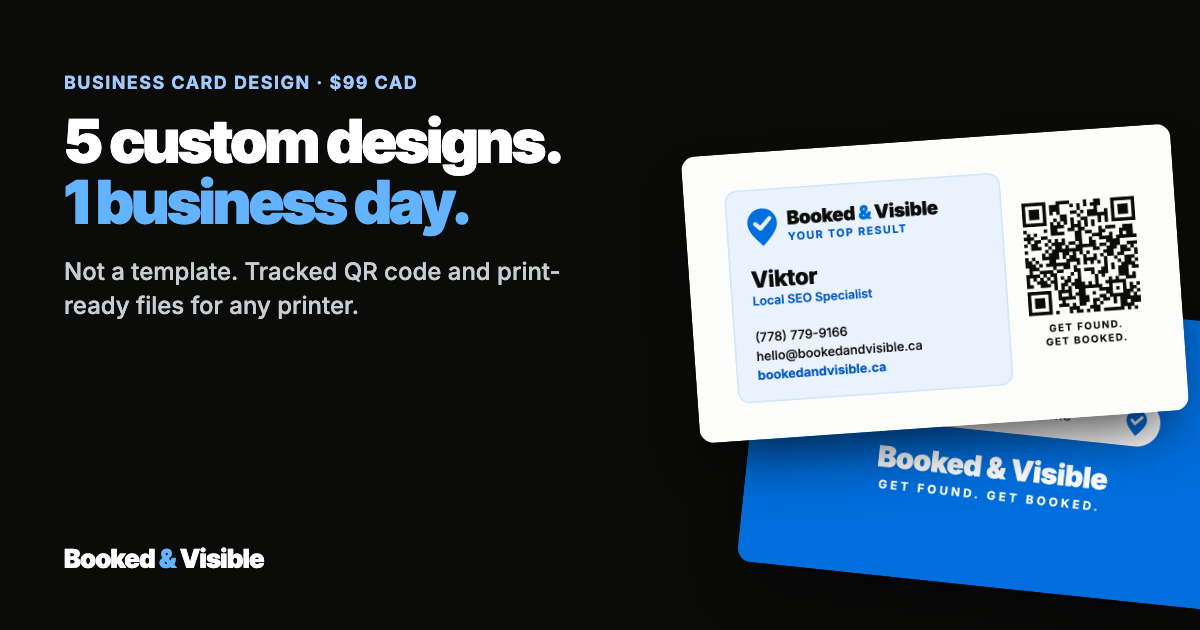
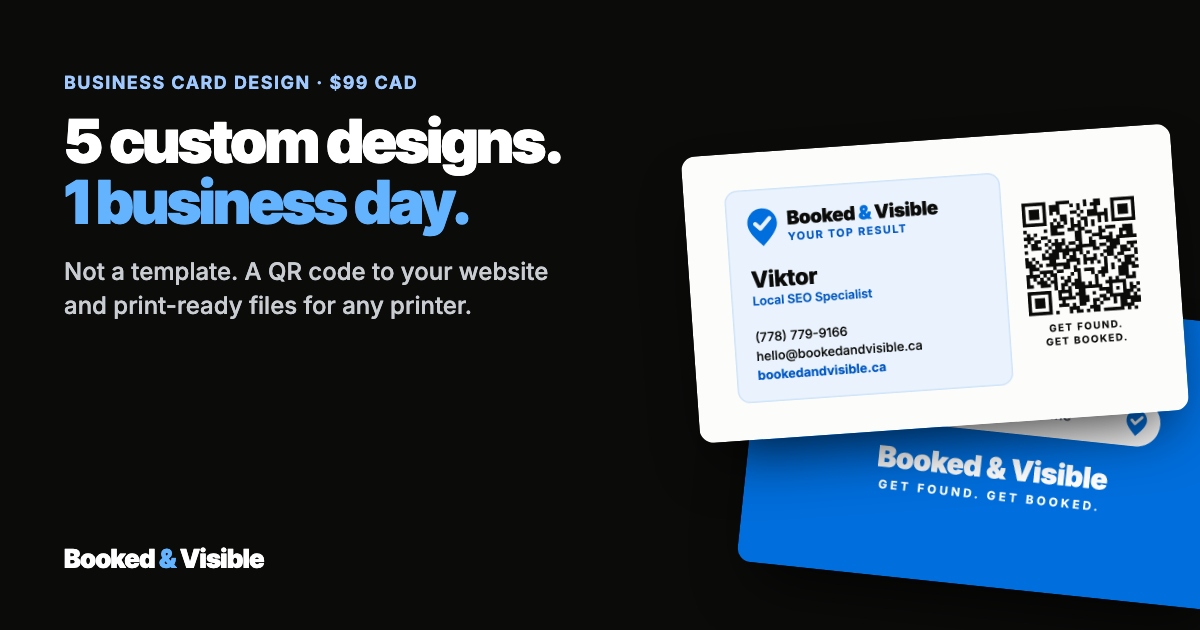
Clarify QR tracking claims on business card page
Tracking only applies when the QR code points to the customer's own
website or booking page; Google review links can't carry a tag.
Reworded the meta/OG text, schema, comparison table, included list,
FAQ, pricing blurb and llms.txt, added a FAQ on where to see card
visits (card / print in Google Analytics), and updated the share image.

Changed region(s): [[0.0617, 0.3921, 0.4625, 0.5127]]

diff --git a/business-card-design/index.html b/business-card-design/index.html
@@ -29,12 +29,12 @@ gtag('config', 'G-3MJ8SD8MRE');
 <meta charset="utf-8">
 <meta name="viewport" content="width=device-width, initial-scale=1">
 <title>Custom Business Card Design, $99 CAD | Booked &amp; Visible</title>
-<meta name="description" content="Custom business card design in Canada: 5 original front-and-back designs in 1 business day, a tracked QR code and print-ready files. $99 CAD flat.">
+<meta name="description" content="Custom business card design in Canada: 5 original front-and-back designs in 1 business day, a QR code to your website and print-ready files. $99 CAD flat.">
 <link rel="icon" href="/favicon.ico" sizes="48x48">
 <link rel="icon" href="/favicon.svg" type="image/svg+xml" sizes="any">
 <link rel="apple-touch-icon" href="/apple-touch-icon.png">
 <meta property="og:title" content="Custom Business Card Design, $99 CAD | Booked &amp; Visible">
-<meta property="og:description" content="5 original front-and-back designs in 1 business day, a tracked QR code, and print-ready files for any printer. Made for your business, not picked from a template.">
+<meta property="og:description" content="5 original front-and-back designs in 1 business day, a QR code to your website, and print-ready files for any printer. Made for your business, not picked from a template.">
 <meta property="og:image" content="https://bookedandvisible.ca/assets/cards/og-business-cards.png">
 <meta property="og:type" content="website">
 <meta property="og:url" content="https://bookedandvisible.ca/business-card-design/">
@@ -42,7 +42,7 @@ gtag('config', 'G-3MJ8SD8MRE');
 <meta property="og:locale" content="en_CA">
 <meta name="twitter:card" content="summary_large_image">
 <meta name="twitter:title" content="Custom Business Card Design, $99 CAD | Booked &amp; Visible">
-<meta name="twitter:description" content="5 original front-and-back designs in 1 business day, a tracked QR code, and print-ready files for any printer.">
+<meta name="twitter:description" content="5 original front-and-back designs in 1 business day, a QR code to your website, and print-ready files for any printer.">
 <meta name="twitter:image" content="https://bookedandvisible.ca/assets/cards/og-business-cards.png">
 <link rel="canonical" href="https://bookedandvisible.ca/business-card-design/">
 <link rel="preconnect" href="https://fonts.googleapis.com">
@@ -58,7 +58,7 @@ gtag('config', 'G-3MJ8SD8MRE');
       "@type": "Service",
       "name": "Custom business card design",
       "serviceType": "Business card design",
-      "description": "Five original front-and-back business card designs within 1 business day of the intake form, one round of changes on the chosen design, a QR code with a tracking tag, contact details matched to the Google Business Profile and website, and print-ready files (PDF and 300 dpi PNG with bleed) set up for the customer's printer. Printing is not included.",
+      "description": "Five original front-and-back business card designs within 1 business day of the intake form, one round of changes on the chosen design, a QR code (links to the customer's website carry a tracking tag for their analytics; Google review links cannot be tracked), contact details matched to the Google Business Profile and website, and print-ready files (PDF and 300 dpi PNG with bleed) set up for the customer's printer. Printing is not included.",
       "provider": {
         "@type": "Organization",
         "name": "Booked & Visible",
@@ -87,12 +87,13 @@ gtag('config', 'G-3MJ8SD8MRE');
     {
       "@type": "FAQPage",
       "mainEntity": [
-        {"@type": "Question", "name": "How much does custom business card design cost?", "acceptedAnswer": {"@type": "Answer", "text": "$99 CAD, one flat price. It includes 5 original front-and-back designs, one round of changes on the design you pick, a tracked QR code, and print-ready files. Printing is paid separately to the printer you choose."}},
+        {"@type": "Question", "name": "How much does custom business card design cost?", "acceptedAnswer": {"@type": "Answer", "text": "$99 CAD, one flat price. It includes 5 original front-and-back designs, one round of changes on the design you pick, a scan-tested QR code, and print-ready files. Printing is paid separately to the printer you choose."}},
         {"@type": "Question", "name": "How is this different from a Canva or Vistaprint template?", "acceptedAnswer": {"@type": "Answer", "text": "A template is a layout thousands of other businesses can use, and you fill it in yourself. We design 5 options around your own logo, colours and services, check your details against your Google Business Profile and website, and set up the files for your printer so nothing gets cut off."}},
         {"@type": "Question", "name": "How long does it take?", "acceptedAnswer": {"@type": "Answer", "text": "You get 5 concepts within 1 business day of sending the intake form. After you pick one and send your changes, the revised card comes back within 1 business day, and the final files are sent the same business day you approve it."}},
         {"@type": "Question", "name": "I don't have a logo. Can you still design my card?", "acceptedAnswer": {"@type": "Answer", "text": "Yes. In the intake form we ask what you'd like to do and give you options: a clean text logo set from your business name (included), working from the best image you already have, such as your sign or social media picture, or pausing your order while you get a logo made."}},
         {"@type": "Question", "name": "Which printers do the files work with?", "acceptedAnswer": {"@type": "Answer", "text": "Any printer. You tell us where you plan to print (Vistaprint, Staples, a local print shop or another service) and we set up the files for that printer's card size and bleed, with step-by-step upload instructions."}},
-        {"@type": "Question", "name": "Can the QR code go to my Google reviews instead of my website?", "acceptedAnswer": {"@type": "Answer", "text": "Yes. The QR code can open your website, your booking page or your Google review link. Website links get a tracking tag, so you can see in Google Analytics how many people came from your cards. We scan-test every QR code before sending the files."}},
+        {"@type": "Question", "name": "Can the QR code go to my Google reviews instead of my website?", "acceptedAnswer": {"@type": "Answer", "text": "Yes. The QR code can open your website, your booking page or your Google review link. Links to your website or booking page get a tracking tag, so your website statistics can show how many visits came from your cards. Google review links can't carry a tracking tag, so the sign those cards are working is new reviews coming in. We scan-test every QR code before sending the files."}},
+        {"@type": "Question", "name": "How do I see how many people used the QR code on my card?", "acceptedAnswer": {"@type": "Answer", "text": "If the QR code points to your website or booking page, the visits show up in your website statistics. In Google Analytics, open Reports, then Acquisition, then Traffic acquisition, switch the table to Session source / medium, and look for card / print. Wix, Squarespace and Shopify show it in their own traffic reports. It counts website visits rather than scans, so treat it as a minimum. No analytics yet? The tag starts counting as soon as you add analytics, with no reprint needed."}},
         {"@type": "Question", "name": "Do you print the cards?", "acceptedAnswer": {"@type": "Answer", "text": "No. You get print-ready files and order the printing yourself, so you choose the paper, quantity and price. Printing 250 standard cards usually costs between about $25 and $80 CAD."}},
         {"@type": "Question", "name": "Who owns the design?", "acceptedAnswer": {"@type": "Answer", "text": "You do. You get the final files to reprint wherever and whenever you like, with no extra fees."}}
       ]
@@ -720,7 +721,7 @@ html[data-motion="off"] .flip-in{transition:none;}
 <tr><th scope="row">Who designs it</th><td>You do</td><td>A designer, usually from one of their layouts</td><td class="us">We design 5 original options for you</td></tr>
 <tr><th scope="row">Options to choose from</th><td>Whatever you make</td><td>Usually 1</td><td class="us">5, front and back</td></tr>
 <tr><th scope="row">Details checked</th><td>No</td><td>Spelling only</td><td class="us">Matched to your Google profile and website</td></tr>
-<tr><th scope="row">QR code</th><td>Plain link</td><td>Plain link, if asked</td><td class="us">Tracked link, scan-tested before delivery</td></tr>
+<tr><th scope="row">QR code</th><td>Plain link</td><td>Plain link, if asked</td><td class="us">Scan-tested; website links tracked in your analytics</td></tr>
 <tr><th scope="row">Printer</th><td>Locked to that site</td><td>Locked to that shop</td><td class="us">Any printer, files set up for it</td></tr>
 <tr><th scope="row">Price</th><td>Free, plus your time</td><td>Varies, plus printing</td><td class="us">$99 CAD flat, plus printing</td></tr>
 </tbody>
@@ -798,7 +799,7 @@ html[data-motion="off"] .flip-in{transition:none;}
 <li><svg aria-hidden="true"><use href="#i-check"/></svg>5 original front-and-back concepts</li>
 <li><svg aria-hidden="true"><use href="#i-check"/></svg>Concepts within 1 business day</li>
 <li><svg aria-hidden="true"><use href="#i-check"/></svg>1 round of changes on your pick</li>
-<li><svg aria-hidden="true"><use href="#i-check"/></svg>QR code with a tracking tag, scan-tested</li>
+<li><svg aria-hidden="true"><use href="#i-check"/></svg>Scan-tested QR code, tracked when it points to your website</li>
 <li><svg aria-hidden="true"><use href="#i-check"/></svg>Details matched to your Google profile and website</li>
 <li><svg aria-hidden="true"><use href="#i-check"/></svg>Files set up for your printer, with bleed</li>
 <li><svg aria-hidden="true"><use href="#i-check"/></svg>PDF and 300 dpi PNG, front and back</li>
@@ -816,12 +817,13 @@ html[data-motion="off"] .flip-in{transition:none;}
 <div class="eyebrow">Questions</div>
 <h2 class="h2" id="h-faq">Business card design FAQ</h2>
 <div class="faq-list">
-<details><summary>How much does custom business card design cost?</summary><p>$99 CAD, one flat price. It includes 5 original front-and-back designs, one round of changes on the design you pick, a tracked QR code, and print-ready files. Printing is paid separately to the printer you choose.</p></details>
+<details><summary>How much does custom business card design cost?</summary><p>$99 CAD, one flat price. It includes 5 original front-and-back designs, one round of changes on the design you pick, a scan-tested QR code, and print-ready files. Printing is paid separately to the printer you choose.</p></details>
 <details><summary>How is this different from a Canva or Vistaprint template?</summary><p>A template is a layout thousands of other businesses can use, and you fill it in yourself. We design 5 options around your own logo, colours and services, check your details against your Google Business Profile and website, and set up the files for your printer so nothing gets cut off.</p></details>
 <details><summary>How long does it take?</summary><p>You get 5 concepts within 1 business day of sending the intake form. After you pick one and send your changes, the revised card comes back within 1 business day, and the final files are sent the same business day you approve it.</p></details>
 <details><summary>I don't have a logo. Can you still design my card?</summary><p>Yes. In the intake form we ask what you'd like to do and give you options: a clean text logo set from your business name (included), working from the best image you already have, such as your sign or social media picture, or pausing your order while you get a logo made.</p></details>
 <details><summary>Which printers do the files work with?</summary><p>Any printer. You tell us where you plan to print (Vistaprint, Staples, a local print shop or another service) and we set up the files for that printer's card size and bleed, with step-by-step upload instructions.</p></details>
-<details><summary>Can the QR code go to my Google reviews instead of my website?</summary><p>Yes. The QR code can open your website, your booking page or your Google review link. Website links get a tracking tag, so you can see in Google Analytics how many people came from your cards. We scan-test every QR code before sending the files. Need the review link? See our guide to <a href="/guides/google-review-link-and-qr-code/" style="color:var(--accent-dark);text-decoration:underline;">finding your Google review link and QR code</a>.</p></details>
+<details><summary>Can the QR code go to my Google reviews instead of my website?</summary><p>Yes. The QR code can open your website, your booking page or your Google review link. Links to your website or booking page get a tracking tag, so your website statistics can show how many visits came from your cards. Google review links can't carry a tracking tag, so the sign those cards are working is new reviews coming in. We scan-test every QR code before sending the files. Need the review link? See our guide to <a href="/guides/google-review-link-and-qr-code/" style="color:var(--accent-dark);text-decoration:underline;">finding your Google review link and QR code</a>.</p></details>
+<details><summary>How do I see how many people used the QR code on my card?</summary><p>If the QR code points to your website or booking page, the visits show up in your website statistics. In Google Analytics, open Reports, then Acquisition, then Traffic acquisition, switch the table to Session source / medium, and look for card / print. Wix, Squarespace and Shopify show it in their own traffic reports. It counts website visits rather than scans, so treat it as a minimum. No analytics yet? The tag starts counting as soon as you add analytics, with no reprint needed.</p></details>
 <details><summary>Do you print the cards?</summary><p>No. You get print-ready files and order the printing yourself, so you choose the paper, quantity and price. Printing 250 standard cards usually costs between about $25 and $80 CAD.</p></details>
 <details><summary>Who owns the design?</summary><p>You do. You get the final files to reprint wherever and whenever you like, with no extra fees.</p></details>
 </div>

diff --git a/pricing/index.html b/pricing/index.html
@@ -271,7 +271,7 @@ gtag('config', 'G-3MJ8SD8MRE');
 </section>
 
 <section style="padding:0 0 48px;display:flex;justify-content:space-between;align-items:center;flex-wrap:wrap;gap:24px;">
-<div><h2 style="font-size:24px;margin-bottom:8px;">Need business cards too?</h2><p style="font-size:15px;color:var(--muted);max-width:520px;margin:0;">5 custom front-and-back designs in 1 business day, a tracked QR code, and print-ready files for any printer. <b style="color:var(--ink);">$99 CAD</b>, one-time.</p></div>
+<div><h2 style="font-size:24px;margin-bottom:8px;">Need business cards too?</h2><p style="font-size:15px;color:var(--muted);max-width:520px;margin:0;">5 custom front-and-back designs in 1 business day, a QR code to your website, and print-ready files for any printer. <b style="color:var(--ink);">$99 CAD</b>, one-time.</p></div>
 <a href="/business-card-design/" class="btn btn-dark" style="white-space:nowrap;">See business card design →</a>
 </section>
 <section style="padding:0 0 48px;display:flex;justify-content:space-between;align-items:center;flex-wrap:wrap;gap:24px;">
